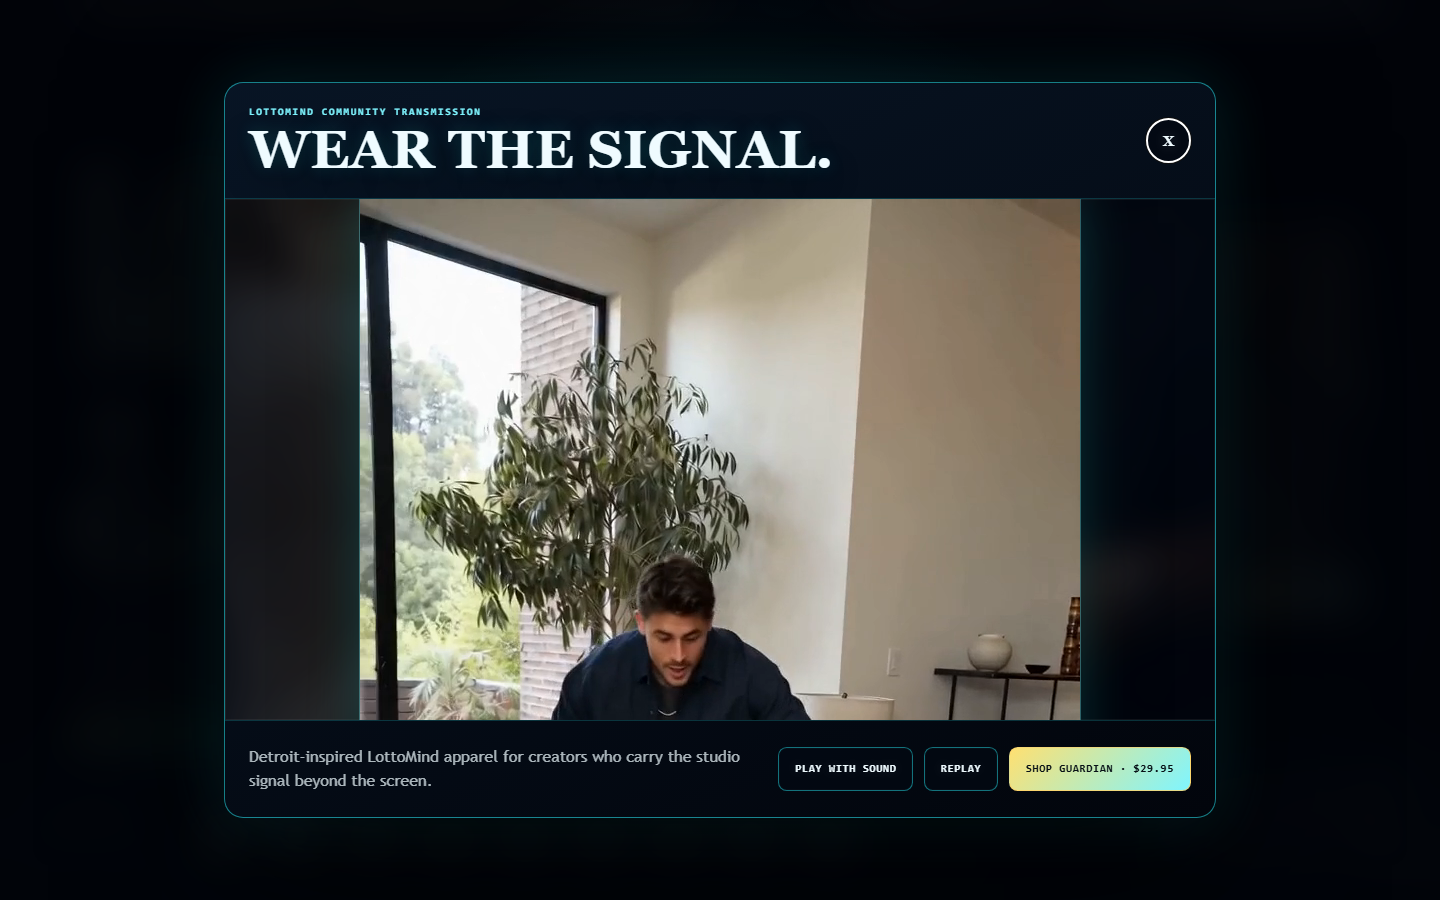
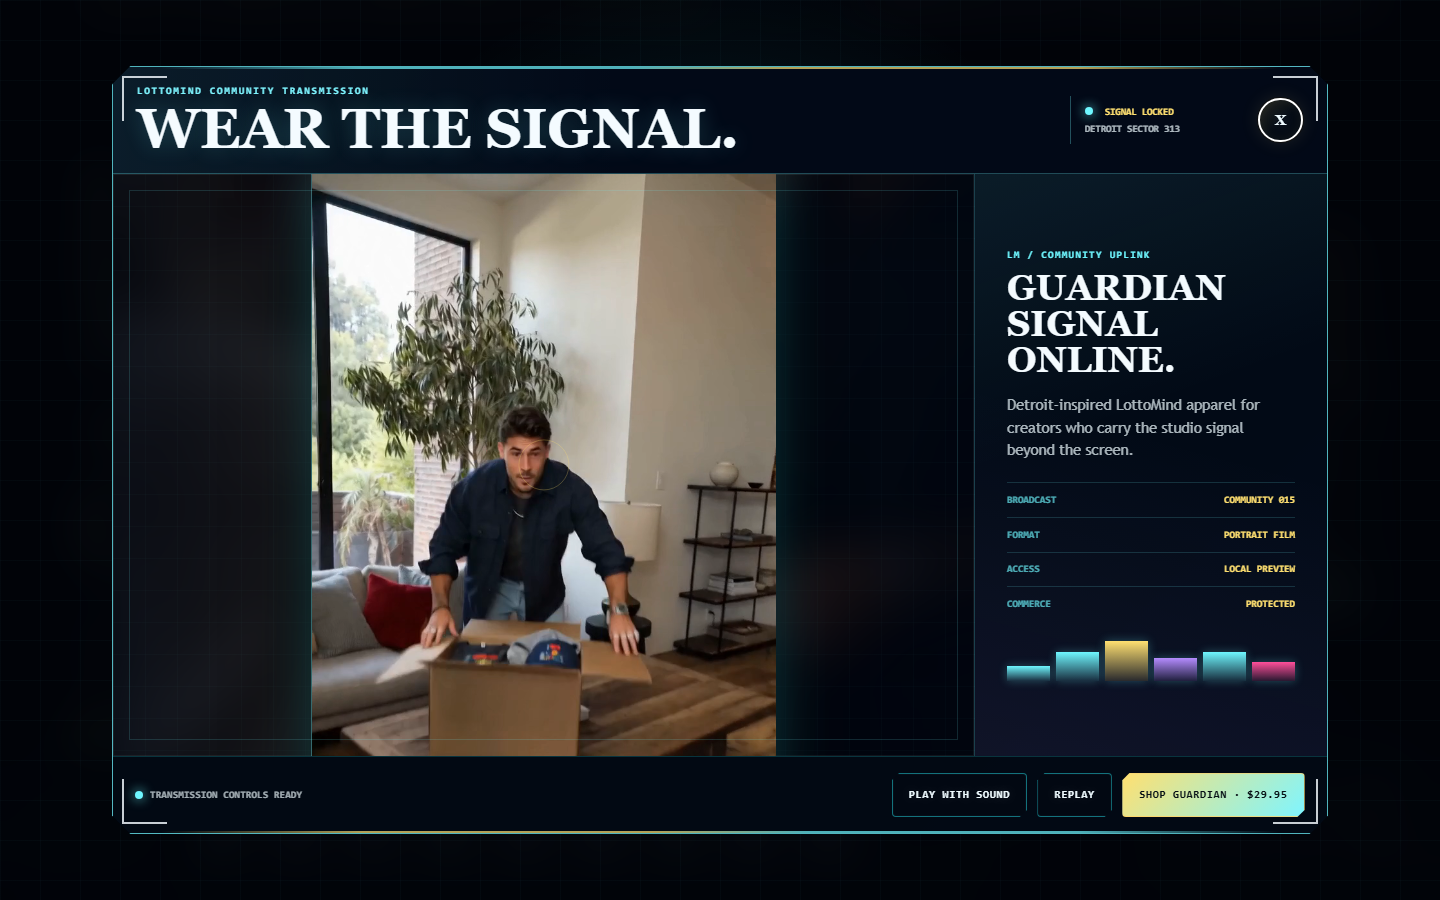
docs: record Static Wav and Storefront HUD verification

diff --git a/docs/staging-reviews/signal-media-corrections.md b/docs/staging-reviews/signal-media-corrections.md
@@ -17,6 +17,7 @@
 | RAHBE | [Desktop](../visual-baseline/v1/beat2lotto-plus--desktop.png) / [Mobile](../visual-baseline/v1/beat2lotto-plus--mobile.png) | [Desktop](./signal-media-corrections-assets/rahbe-1440x900.png) / [Tablet](./signal-media-corrections-assets/rahbe-768x1024.png) / [Mobile](./signal-media-corrections-assets/rahbe-390x844.png) |
 | Spheres | [Desktop](../visual-baseline/v1/lottery-spheres-spheres--desktop.png) / [Mobile](../visual-baseline/v1/lottery-spheres-spheres--mobile.png) | [Desktop](./signal-media-corrections-assets/spheres-1440x900.png) / [Tablet](./signal-media-corrections-assets/spheres-768x1024.png) / [Mobile](./signal-media-corrections-assets/spheres-390x844.png) |
 | Storefront | [Desktop](../visual-baseline/v1/merch-store--desktop.png) / [Mobile](../visual-baseline/v1/merch-store--mobile.png) | [Desktop](./signal-media-corrections-assets/storefront-1440x900.png) / [Tablet](./signal-media-corrections-assets/storefront-768x1024.png) / [Mobile](./signal-media-corrections-assets/storefront-390x844.png) |
+| Static Wav | [Desktop](../visual-baseline/v1/how-to-use--desktop.png) / [Mobile](../visual-baseline/v1/how-to-use--mobile.png) | [Desktop](./signal-media-corrections-assets/static-wav-1440x900.png) / [Tablet](./signal-media-corrections-assets/static-wav-768x1024.png) / [Mobile](./signal-media-corrections-assets/static-wav-390x844.png) |
 | Live Events | [Desktop](../visual-baseline/v1/live-events--desktop.png) / [Mobile](../visual-baseline/v1/live-events--mobile.png) | [Desktop](./signal-media-corrections-assets/live-events-1440x900.png) / [Tablet](./signal-media-corrections-assets/live-events-768x1024.png) / [Mobile](./signal-media-corrections-assets/live-events-390x844.png) |
 | News | [Desktop](../visual-baseline/v1/news-index--desktop.png) / [Mobile](../visual-baseline/v1/news-index--mobile.png) | [Desktop](./signal-media-corrections-assets/news-1440x900.png) / [Tablet](./signal-media-corrections-assets/news-768x1024.png) / [Mobile](./signal-media-corrections-assets/news-390x844.png) |
 
@@ -32,9 +33,10 @@
 - Storefront product actions are labeled `Preorder` and build a local device-only preview that explicitly states no order, reservation, payment, or inventory claim was submitted.
 - Live Events attempts synchronized hero sound immediately and exposes an accurate `Play sound` fallback instead of claiming sound is active when autoplay is blocked.
 - News cards now use story or deterministic editorial imagery instead of repeated placeholder discs.
-- Shared navigation reads `Games`, `RAHBE`, `Storefront`, and `Guide` without changing route destinations. All ten tab positions now use one stable artwork map and fixed circular geometry across desktop and mobile.
+- Shared navigation reads `Games`, `RAHBE`, `Storefront`, and `Static Wav` without changing route destinations. All ten tab positions now use one stable artwork map and fixed circular geometry across desktop and mobile.
 - The Games route restores a persistent, keyboard-focusable `NAV` control that hides and restores the artwork header without removing page navigation from the document.
-- The Storefront commercial now uses a compact cinematic frame on desktop and a full-height portrait treatment on mobile, keeping the film, copy, close control, sound control, replay control, and Guardian action visible without overflow.
+- Static Wav restores its existing `Follow the Signal` commercial on every page entry, including repeat navigation in the same tab, while retaining the user-gesture sound fallback.
+- The Storefront commercial now uses a complete futuristic HUD with a framed portrait viewport, Detroit-sector telemetry rail, signal meter, and always-visible controls on desktop and mobile.
 
 ## Intentional Departures
 
@@ -43,7 +45,7 @@
 - Arcade restores the earlier LottoMan particle organism behind the redesigned key art instead of replacing the current Arcade directory.
 - Storefront preorder controls remain non-transactional until a separately approved commerce integration is available.
 - News uses branded fallback art when a publisher does not provide a usable image. No live result, ranking, community, or social-proof data was invented.
-- The Storefront commercial is intentionally narrower than the previous staging dialog so the portrait film reads clearly and the action row remains visible at 1440x900, 768x1024, and 390x844.
+- The Storefront commercial intentionally replaces the plain cinematic frame with a wider HUD composition on desktop and a stacked full-height HUD on mobile. The portrait film and action row remain visible at 1440x900, 768x1024, and 390x844.
 
 ## Regressions
 

diff --git a/docs/upgrade-redesign-status.md b/docs/upgrade-redesign-status.md
@@ -199,3 +199,18 @@
 - Staging safety: Noindex and preview banners verified; live payments, production account writes, real redemptions, and production analytics remain blocked
 - Live checkout: Not exercised or changed by this correction
 - Approval status: Not approved for production; production remains unchanged
+
+## Static Wav Commercial And Storefront HUD Follow-up
+
+- Step number: Browser-requested Static Wav naming, commercial restoration, and Storefront HUD correction
+- Implementation commit SHA: `24b7baa4fef620da5bfe1acee9f91f11c9f52cd2`
+- Affected routes: `/how-to-use.html`, `/merch-store.html`, `/news/`, and shared header/menu surfaces
+- Changes: Restored `Static Wav` as the page, tab, metadata, generated News, and runtime-menu label; restored the existing `Follow the Signal` commercial on every Static Wav page entry; redesigned the single Storefront commercial as a complete futuristic HUD with film viewport, transmission telemetry, signal meter, and visible controls
+- Tests: JavaScript syntax passed; site validation passed for 15 HTML files; News/account tests 20/20; staging browser safety 10/10; source/staging desktop/mobile route matrix 92/92; focused Static Wav repeat-entry and Storefront layout checks passed
+- Visual review: Refreshed Storefront and Static Wav captures at 1440x900, 768x1024, and 390x844 under `docs/staging-reviews/signal-media-corrections-assets/`; compared with `docs/visual-baseline/v1/`
+- Intentional visual departures: Storefront replaces the plain film frame with a cyan/gold/violet/pink HUD; Static Wav retains its original commercial artwork while restoring the requested route name and entry behavior
+- Verification: No horizontal overflow, console errors, page errors, or broken assets in the six affected-route captures; the Storefront footer and all actions remain within the viewport
+- Staging URL: Local only (`http://127.0.0.1:8143/`)
+- Staging safety: Noindex and preview banners verified; live payments, production account writes, real redemptions, and production analytics remain blocked
+- Live checkout: Not exercised or changed by this correction
+- Approval status: Not approved for production; production remains unchanged
